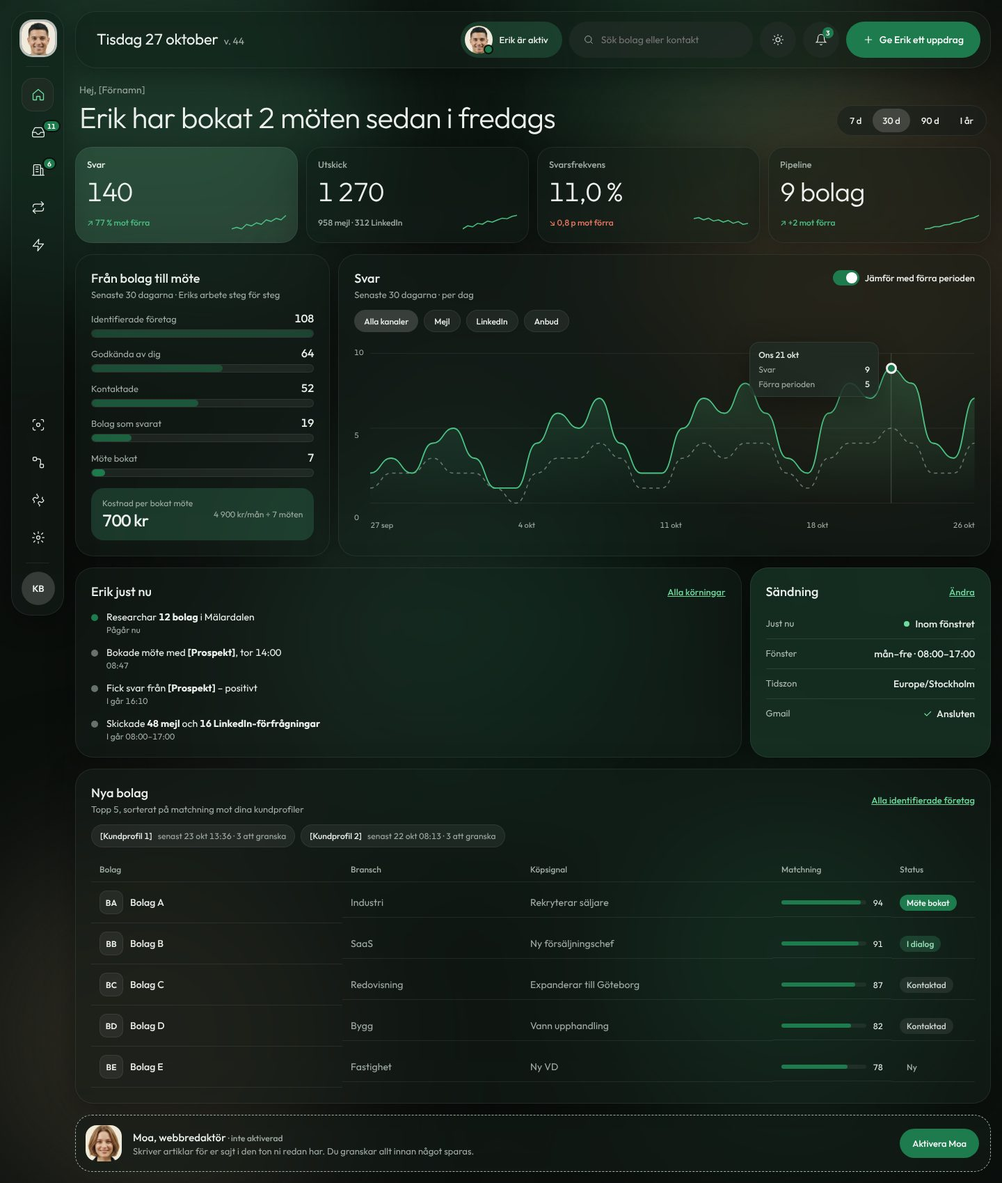
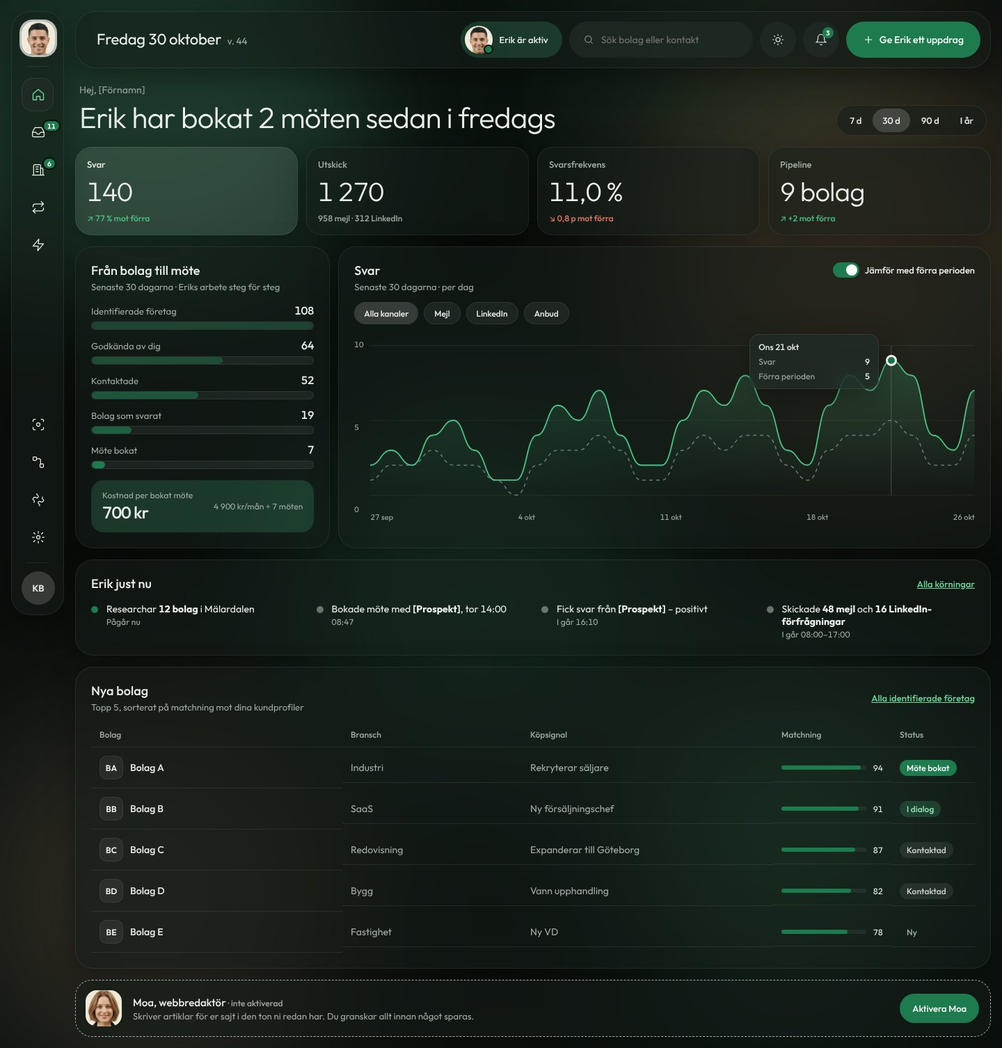
a

diff --git a/design/Main.dc.html b/design/Main.dc.html
@@ -41,7 +41,7 @@ html,body{transition:none}
 
 <!-- Sidebar -->
 <div style="position: sticky; top: 16px; z-index: 30; flex: none; width: 76px; height: calc(100vh - 32px); min-height: 620px">
-<aside onMouseEnter="{{openRail}}" onMouseLeave="{{closeRail}}" onFocus="{{openRail}}" onBlur="{{closeRail}}" style="position: absolute; left: 0; top: 0; bottom: 0; width: {{railW}}; box-sizing: border-box; overflow: hidden; padding: 14px; border-radius: 28px; background: var(--glass); border: 1px solid var(--glassLine); backdrop-filter: blur(28px) saturate(150%); -webkit-backdrop-filter: blur(28px) saturate(150%); box-shadow: {{railShadow}}; display: flex; flex-direction: column; gap: 14px; transition: width .28s cubic-bezier(.65,0,.35,1), box-shadow .28s">
+<aside onMouseEnter="{{openRail}}" onMouseLeave="{{closeRail}}" onFocus="{{openRail}}" onBlur="{{closeRail}}" style="position: absolute; left: 0; top: 0; bottom: 0; width: {{railW}}; box-sizing: border-box; overflow: hidden; padding: 14px; border-radius: 28px; background: var(--glass); border: 1px solid var(--glassLine); backdrop-filter: blur(28px) saturate(110%); -webkit-backdrop-filter: blur(28px) saturate(110%); box-shadow: {{railShadow}}; display: flex; flex-direction: column; gap: 14px; transition: width .28s cubic-bezier(.65,0,.35,1), box-shadow .28s">
 
 <button aria-label="Byt kollega, nu vald: Erik" style="display: flex; align-items: center; gap: 12px; width: 100%; height: 48px; padding: 0; border-radius: 16px; border: 0; background: transparent; color: var(--ink); cursor: pointer; text-align: left; white-space: nowrap">
 <img src="../assets/erik.jpg" alt="" style="width: 48px; height: 48px; flex: none; border-radius: 16px; object-fit: cover; box-shadow: 0 0 0 3px rgba(255,255,255,0.7)">
@@ -93,7 +93,7 @@ html,body{transition:none}
 <main style="flex: 1 1 0; min-width: 0; display: flex; flex-direction: column; gap: 16px">
 
 <sc-if value="{{anyPop}}" hint-placeholder-val="{{false}}"><div aria-hidden="true" onMouseDown="{{closePops}}" style="position: fixed; inset: 0; z-index: 14; background: transparent; cursor: default"></div></sc-if>
-<header style="position: relative; z-index: 15; display: flex; flex-wrap: wrap; align-items: center; justify-content: space-between; gap: 16px; min-height: 80px; box-sizing: border-box; padding: 14px 14px 14px 30px; border-radius: 30px; background: var(--glass); border: 1px solid var(--glassLine); backdrop-filter: blur(28px) saturate(150%); -webkit-backdrop-filter: blur(28px) saturate(150%); box-shadow: var(--shadow)">
+<header style="position: relative; z-index: 15; display: flex; flex-wrap: wrap; align-items: center; justify-content: space-between; gap: 16px; min-height: 80px; box-sizing: border-box; padding: 14px 14px 14px 30px; border-radius: 30px; background: var(--glass); border: 1px solid var(--glassLine); backdrop-filter: blur(28px) saturate(110%); -webkit-backdrop-filter: blur(28px) saturate(110%); box-shadow: var(--shadow)">
 <div style="display: flex; flex-direction: column; gap: 4px; line-height: 1.15; padding: 4px 0">
 <span style="font-size: 22px; font-weight: 400; letter-spacing: -0.01em">{{todayStr}} <span style="margin-left: 4px; font-size: 14px; font-weight: 400; color: var(--muted)">{{weekStr}}</span></span>
 </div>
@@ -179,17 +179,17 @@ html,body{transition:none}
 <section aria-label="Nyckeltal" style="display: grid; grid-template-columns: repeat(auto-fit, minmax(180px, 1fr)); gap: 12px">
 <sc-for list="{{kpis}}" as="k" hint-placeholder-count="6">
 <sc-if value="{{k.selected}}" hint-placeholder-val="{{false}}">
-<button onClick="{{k.pick}}" aria-pressed="true" style="text-align: left; font: inherit; color: var(--ink); background: {{t.kpiOn}}; border: 1px solid var(--glassLine); border-radius: 24px; padding: 16px; display: flex; flex-direction: column; gap: 12px; cursor: pointer; backdrop-filter: blur(24px) saturate(150%); -webkit-backdrop-filter: blur(24px) saturate(150%); box-shadow: var(--shadow)">
+<button onClick="{{k.pick}}" aria-pressed="true" style="text-align: left; font: inherit; color: var(--ink); background: {{t.kpiOn}}; border: 1px solid var(--glassLine); border-radius: 24px; padding: 16px; display: flex; flex-direction: column; gap: 12px; cursor: pointer; backdrop-filter: blur(24px) saturate(110%); -webkit-backdrop-filter: blur(24px) saturate(110%); box-shadow: var(--shadow)">
 <span style="font-size: 13px; font-weight: 500">{{k.label}}</span>
 <span style="font-size: 38px; font-weight: 300; letter-spacing: -0.02em; line-height: 1">{{k.value}}</span>
-<span style="display: flex; align-items: center; justify-content: space-between; gap: 8px"><span style="font-size: 12px; font-weight: 500; color: {{k.trendColor}}">{{k.trend}}</span><svg width="78" height="26" viewBox="0 0 100 32" preserveAspectRatio="none" aria-hidden="true"><polyline points="{{k.spark}}" fill="none" stroke="var(--chart)" stroke-width="1.5" vector-effect="non-scaling-stroke" stroke-linejoin="round"></polyline></svg></span>
+<span style="display: flex; align-items: center; justify-content: space-between; gap: 8px"><span style="font-size: 12px; font-weight: 500; color: {{k.trendColor}}">{{k.trend}}</span></span>
 </button>
 </sc-if>
 <sc-if value="{{k.unselected}}" hint-placeholder-val="{{true}}">
-<button onClick="{{k.pick}}" aria-pressed="false" style="text-align: left; font: inherit; color: var(--ink); background: var(--glass); border: 1px solid var(--glassLine); border-radius: 22px; padding: 16px; display: flex; flex-direction: column; gap: 12px; cursor: pointer; backdrop-filter: blur(24px) saturate(150%); -webkit-backdrop-filter: blur(24px) saturate(150%); box-shadow: var(--shadow)">
+<button onClick="{{k.pick}}" aria-pressed="false" style="text-align: left; font: inherit; color: var(--ink); background: var(--glass); border: 1px solid var(--glassLine); border-radius: 22px; padding: 16px; display: flex; flex-direction: column; gap: 12px; cursor: pointer; backdrop-filter: blur(24px) saturate(110%); -webkit-backdrop-filter: blur(24px) saturate(110%); box-shadow: var(--shadow)">
 <span style="font-size: 13px; font-weight: 500; color: var(--muted)">{{k.label}}</span>
 <span style="font-size: 38px; font-weight: 300; letter-spacing: -0.02em; line-height: 1">{{k.value}}</span>
-<span style="display: flex; align-items: center; justify-content: space-between; gap: 8px"><span style="font-size: 12px; font-weight: 500; color: {{k.trendColor}}">{{k.trend}}</span><svg width="78" height="26" viewBox="0 0 100 32" preserveAspectRatio="none" aria-hidden="true"><polyline points="{{k.spark}}" fill="none" stroke="var(--chart)" stroke-width="1.5" vector-effect="non-scaling-stroke" stroke-linejoin="round"></polyline></svg></span>
+<span style="display: flex; align-items: center; justify-content: space-between; gap: 8px"><span style="font-size: 12px; font-weight: 500; color: {{k.trendColor}}">{{k.trend}}</span></span>
 </button>
 </sc-if>
 </sc-for>
@@ -198,7 +198,7 @@ html,body{transition:none}
 <!-- Goal gauge + chart -->
 <section style="display: flex; flex-wrap: wrap; gap: 12px; align-items: stretch">
 
-<div style="flex: 1 1 320px; min-width: 0; padding: 22px; border-radius: 26px; background: var(--glass); border: 1px solid var(--glassLine); backdrop-filter: blur(28px) saturate(150%); -webkit-backdrop-filter: blur(28px) saturate(150%); box-shadow: var(--shadow); display: flex; flex-direction: column; gap: 16px">
+<div style="flex: 1 1 320px; min-width: 0; padding: 22px; border-radius: 26px; background: var(--glass); border: 1px solid var(--glassLine); backdrop-filter: blur(28px) saturate(110%); -webkit-backdrop-filter: blur(28px) saturate(110%); box-shadow: var(--shadow); display: flex; flex-direction: column; gap: 16px">
 <div style="display: flex; flex-direction: column; gap: 4px"><h2 style="margin: 0; font-size: 18px; font-weight: 500">Från bolag till möte</h2><span style="font-size: 13px; color: var(--muted)">Senaste 30 dagarna · Eriks arbete steg för steg</span></div>
 <ol style="list-style: none; margin: 0; padding: 0; display: flex; flex-direction: column; gap: 12px">
 <sc-for list="{{funnel}}" as="f" hint-placeholder-count="5">
@@ -214,7 +214,7 @@ html,body{transition:none}
 </div>
 </div>
 
-<div style="flex: 999 1 560px; min-width: 0; padding: 22px; border-radius: 26px; background: var(--glass); border: 1px solid var(--glassLine); backdrop-filter: blur(28px) saturate(150%); -webkit-backdrop-filter: blur(28px) saturate(150%); box-shadow: var(--shadow); display: flex; flex-direction: column; gap: 14px">
+<div style="flex: 999 1 560px; min-width: 0; padding: 22px; border-radius: 26px; background: var(--glass); border: 1px solid var(--glassLine); backdrop-filter: blur(28px) saturate(110%); -webkit-backdrop-filter: blur(28px) saturate(110%); box-shadow: var(--shadow); display: flex; flex-direction: column; gap: 14px">
 <div style="display: flex; flex-wrap: wrap; justify-content: space-between; gap: 12px; align-items: flex-start">
 <div style="display: flex; flex-direction: column; gap: 4px"><h2 style="margin: 0; font-size: 18px; font-weight: 500">{{chartTitle}}</h2><span style="font-size: 13px; color: var(--muted)">{{chartSub}}</span></div>
 <sc-if value="{{showChart}}" hint-placeholder-val="{{true}}">
@@ -278,9 +278,9 @@ html,body{transition:none}
 <!-- Erik now -->
 <section aria-label="Erik just nu" style="display: flex; flex-wrap: wrap; gap: 12px; align-items: stretch">
 
-<div style="flex: 999 1 520px; min-width: 0; padding: 22px; border-radius: 26px; background: var(--glass); border: 1px solid var(--glassLine); backdrop-filter: blur(28px) saturate(150%); -webkit-backdrop-filter: blur(28px) saturate(150%); box-shadow: var(--shadow); display: flex; flex-direction: column; gap: 16px">
+<div style="flex: 999 1 520px; min-width: 0; padding: 22px; border-radius: 26px; background: var(--glass); border: 1px solid var(--glassLine); backdrop-filter: blur(28px) saturate(110%); -webkit-backdrop-filter: blur(28px) saturate(110%); box-shadow: var(--shadow); display: flex; flex-direction: column; gap: 16px">
 <div style="display: flex; justify-content: space-between; align-items: center"><h2 style="margin: 0; font-size: 18px; font-weight: 500">Erik just nu</h2><a href="#" style="font-size: 13px; font-weight: 500; color: var(--greenText)">Alla körningar</a></div>
-<ol style="list-style: none; margin: 0; padding: 0; display: flex; flex-direction: column; gap: 16px">
+<ol style="list-style: none; margin: 0; padding: 0; display: grid; grid-template-columns: repeat(auto-fit, minmax(260px, 1fr)); gap: 16px 24px">
 <li style="display: flex; gap: 12px; align-items: flex-start"><span style="width: 10px; height: 10px; margin-top: 5px; flex: none; border-radius: 999px; background: var(--green); box-shadow: none"></span><div style="display: flex; flex-direction: column; gap: 2px"><span style="font-size: 14px">Researchar <b>12 bolag</b> i Mälardalen</span><span style="font-size: 12px; color: var(--muted)">Pågår nu</span></div></li>
 <li style="display: flex; gap: 12px; align-items: flex-start"><span style="width: 10px; height: 10px; margin-top: 5px; flex: none; border-radius: 999px; background: var(--muted); opacity: 0.6"></span><div style="display: flex; flex-direction: column; gap: 2px"><span style="font-size: 14px">Bokade möte med <b>[Prospekt]</b>, tor 14:00</span><span style="font-size: 12px; color: var(--muted)">08:47</span></div></li>
 <li style="display: flex; gap: 12px; align-items: flex-start"><span style="width: 10px; height: 10px; margin-top: 5px; flex: none; border-radius: 999px; background: var(--muted); opacity: 0.6"></span><div style="display: flex; flex-direction: column; gap: 2px"><span style="font-size: 14px">Fick svar från <b>[Prospekt]</b> – positivt</span><span style="font-size: 12px; color: var(--muted)">I går 16:10</span></div></li>
@@ -288,25 +288,11 @@ html,body{transition:none}
 </ol>
 </div>
 
-<div style="flex: 1 1 300px; min-width: 0; padding: 22px; border-radius: 26px; background: {{t.inv}}; color: {{t.invInk}}; border: 1px solid var(--glassLine); backdrop-filter: blur(28px) saturate(150%); -webkit-backdrop-filter: blur(28px) saturate(150%); box-shadow: var(--shadow); display: flex; flex-direction: column; gap: 14px">
-<div style="display: flex; justify-content: space-between; align-items: center"><h2 style="margin: 0; font-size: 18px; font-weight: 500">Sändning</h2><a href="Installningar.dc.html" style="font-size: 13px; font-weight: 500; color: {{t.invGreen}}">Ändra</a></div>
-<dl style="margin: 0; display: flex; flex-direction: column">
-<div style="display: flex; justify-content: space-between; gap: 12px; padding: 12px 0; border-bottom: 1px solid {{t.invLine}}"><dt style="font-size: 13px; opacity: 0.72">Just nu</dt><dd style="margin: 0; font-size: 14px; font-weight: 500; display: flex; align-items: center; gap: 8px"><span style="width: 8px; height: 8px; border-radius: 999px; background: {{t.invGreen}}"></span>Inom fönstret</dd></div>
-<div style="display: flex; justify-content: space-between; gap: 12px; padding: 12px 0; border-bottom: 1px solid {{t.invLine}}"><dt style="font-size: 13px; opacity: 0.72">Fönster</dt><dd style="margin: 0; font-size: 14px; font-weight: 500">mån–fre · 08:00–17:00</dd></div>
-<div style="display: flex; justify-content: space-between; gap: 12px; padding: 12px 0; border-bottom: 1px solid {{t.invLine}}"><dt style="font-size: 13px; opacity: 0.72">Tidszon</dt><dd style="margin: 0; font-size: 14px; font-weight: 500">Europe/Stockholm</dd></div>
-<div style="display: flex; justify-content: space-between; gap: 12px; padding: 12px 0"><dt style="font-size: 13px; opacity: 0.72">Gmail</dt><dd style="margin: 0; font-size: 14px; font-weight: 500; display: flex; align-items: center; gap: 6px"><svg width="14" height="14" viewBox="0 0 24 24" fill="none" stroke="currentColor" stroke-width="2.2" stroke-linecap="round" stroke-linejoin="round" aria-hidden="true" style="color: {{t.invGreen}}"><path d="m5 12 5 5L20 7"></path></svg>Ansluten</dd></div>
-</dl>
-</div>
 </section>
 
 <!-- New companies -->
-<section style="padding: 22px; border-radius: 26px; background: var(--glass); border: 1px solid var(--glassLine); backdrop-filter: blur(28px) saturate(150%); -webkit-backdrop-filter: blur(28px) saturate(150%); box-shadow: var(--shadow); display: flex; flex-direction: column; gap: 14px">
+<section style="padding: 22px; border-radius: 26px; background: var(--glass); border: 1px solid var(--glassLine); backdrop-filter: blur(28px) saturate(110%); -webkit-backdrop-filter: blur(28px) saturate(110%); box-shadow: var(--shadow); display: flex; flex-direction: column; gap: 14px">
 <div style="display: flex; flex-wrap: wrap; justify-content: space-between; gap: 12px; align-items: center"><div style="display: flex; flex-direction: column; gap: 4px"><h2 style="margin: 0; font-size: 18px; font-weight: 500">Nya bolag</h2><span style="font-size: 13px; color: var(--muted)">Topp 5, sorterat på matchning mot dina kundprofiler</span></div><a href="Foretag.dc.html" style="font-size: 13px; font-weight: 500; color: var(--greenText)">Alla identifierade företag</a></div>
-<div style="display: flex; flex-wrap: wrap; gap: 8px">
-<sc-for list="{{searches}}" as="se" hint-placeholder-count="2">
-<span style="display: flex; align-items: center; gap: 8px; padding: 8px 12px; border-radius: 999px; background: var(--soft); border: 1px solid var(--glassLine); font-size: 12px"><b style="font-weight: 500">{{se.profile}}</b><span style="color: var(--muted)">senast {{se.last}} · {{se.found}}</span></span>
-</sc-for>
-</div>
 <div style="overflow-x: auto">
 <div role="table" aria-label="Nya bolag" style="min-width: 720px; font-size: 14px">
 <div role="row" style="display: grid; grid-template-columns: minmax(180px, 1.4fr) minmax(110px, 1fr) minmax(160px, 1.4fr) 170px 120px; color: var(--muted); font-size: 12px">
@@ -330,7 +316,7 @@ html,body{transition:none}
 </section>
 
 <!-- Moa strip -->
-<section style="display: flex; flex-wrap: wrap; align-items: center; gap: 16px; padding: 14px 16px 14px 14px; border-radius: 24px; background: var(--glass); border: 1px dashed var(--muted); backdrop-filter: blur(28px) saturate(150%); -webkit-backdrop-filter: blur(28px) saturate(150%)">
+<section style="display: flex; flex-wrap: wrap; align-items: center; gap: 16px; padding: 14px 16px 14px 14px; border-radius: 24px; background: var(--glass); border: 1px dashed var(--muted); backdrop-filter: blur(28px) saturate(110%); -webkit-backdrop-filter: blur(28px) saturate(110%)">
 <img src="../assets/moa.jpg" alt="Moa" style="width: 52px; height: 52px; flex: none; border-radius: 16px; object-fit: cover">
 <div style="flex: 1 1 320px; display: flex; flex-direction: column; gap: 2px"><span style="font-size: 15px; font-weight: 500">Moa, webbredaktör <span style="font-size: 12px; font-weight: 500; color: var(--muted)">· inte aktiverad</span></span><span style="font-size: 13px; color: var(--muted)">Skriver artiklar för er sajt i den ton ni redan har. Du granskar allt innan något sparas.</span></div>
 <button style="height: 42px; padding: 0 18px; border-radius: 999px; border: 0; background: var(--green); color: var(--onGreen); font-size: 13px; font-weight: 500; cursor: pointer">Aktivera Moa</button>
@@ -379,15 +365,15 @@ class Component extends DCLogic {
       base: '#0A0F0C', blob1: '#1D3A2B', blob2: '#3A3124', blob3: '#173226', blob4: '#2B2A22',
       glass: 'rgba(22,30,25,0.55)', glassHi: 'rgba(34,46,38,0.7)', glassLine: 'rgba(255,255,255,0.08)',
       soft: 'rgba(255,255,255,0.06)', line: 'rgba(255,255,255,0.08)', ink: '#EEF2EE', muted: '#A3AFA7',
-      pill: 'rgba(255,255,255,0.16)', pillInk: '#EEF2EE', kpiOn: 'rgba(255,255,255,0.1)', sun: 'rgba(76,194,133,0.18)', beam: 'rgba(255,255,255,0.05)', grain: '0.25', green: accent, greenText: dark ? '#6EDC9F' : '#15603C', onGreen: '#FFFFFF', greenGlow: 'rgba(30,123,78,0.35)',
+      pill: 'rgba(255,255,255,0.16)', pillInk: '#EEF2EE', kpiOn: 'rgba(255,255,255,0.1)', sun: 'rgba(76,194,133,0.08)', beam: 'transparent', grain: '0.15', green: accent, greenText: dark ? '#6EDC9F' : '#15603C', onGreen: '#FFFFFF', greenGlow: 'rgba(30,123,78,0.35)',
       chart: '#4CC285', chartPrev: '#6C7A71', tintG: 'rgba(76,194,133,0.2)', down: '#F07A63',
       shadow: '0 10px 40px rgba(0,0,0,0.35)',
       scrim: 'rgba(10,15,12,0.35)', pop: 'rgba(22,30,25,0.97)', field: 'rgba(255,255,255,0.05)', fieldLine: 'rgba(255,255,255,0.12)', inv: 'rgba(24,52,38,0.78)', invInk: '#EEF2EE', invSoft: 'rgba(255,255,255,0.06)', invLine: 'rgba(255,255,255,0.1)', invGreen: '#6EDC9F', invGlow: 'rgba(110,220,159,0.22)'
     } : {
-      base: '#D8D2C6', blob1: '#B9C4A8', blob2: '#EADFCB', blob3: '#9FB394', blob4: '#CDB89C',
-      glass: 'rgba(255,255,255,0.36)', glassHi: 'rgba(255,255,255,0.6)', glassLine: 'rgba(255,255,255,0.65)',
+      base: '#E6E3DC', blob1: '#CBD4C2', blob2: '#EDE9E1', blob3: '#C6D0BE', blob4: '#E2DBCF',
+      glass: 'rgba(255,255,255,0.52)', glassHi: 'rgba(255,255,255,0.6)', glassLine: 'rgba(255,255,255,0.65)',
       soft: 'rgba(255,255,255,0.45)', line: 'rgba(30,40,34,0.1)', ink: '#14201A', muted: '#3F4B44',
-      pill: 'rgba(255,255,255,0.82)', pillInk: '#14201A', kpiOn: 'rgba(255,255,255,0.78)', sun: 'rgba(255,253,240,0.6)', beam: 'rgba(255,255,250,0.28)', grain: '0.35', green: accent, greenText: dark ? '#6EDC9F' : '#15603C', onGreen: '#FFFFFF', greenGlow: 'rgba(30,123,78,0.28)',
+      pill: 'rgba(255,255,255,0.82)', pillInk: '#14201A', kpiOn: 'rgba(255,255,255,0.78)', sun: 'rgba(255,255,255,0.3)', beam: 'transparent', grain: '0.15', green: accent, greenText: dark ? '#6EDC9F' : '#15603C', onGreen: '#FFFFFF', greenGlow: 'rgba(30,123,78,0.28)',
       chart: '#1E7B4E', chartPrev: '#8A938C', tintG: 'rgba(30,123,78,0.16)', down: '#9E2F22',
       shadow: '0 1px 0 rgba(255,255,255,0.7) inset, 0 20px 50px rgba(60,70,40,0.08)',
       scrim: 'rgba(216,210,198,0.28)', pop: 'rgba(251,250,247,0.97)', field: '#FFFFFF', fieldLine: 'rgba(20,32,26,0.12)', inv: 'rgba(17,28,22,0.86)', invInk: '#F1F5F2', invSoft: 'rgba(255,255,255,0.08)', invLine: 'rgba(255,255,255,0.12)', invGreen: '#6EDC9F', invGlow: 'rgba(110,220,159,0.22)'

diff --git a/prototype/Main.html b/prototype/Main.html
@@ -39,7 +39,7 @@ html,body{transition:none}
 
 <!-- Sidebar -->
 <div style="position: sticky; top: 16px; z-index: 30; flex: none; width: 76px; height: calc(100vh - 32px); min-height: 620px">
-<aside onMouseEnter="{{openRail}}" onMouseLeave="{{closeRail}}" onFocus="{{openRail}}" onBlur="{{closeRail}}" style="position: absolute; left: 0; top: 0; bottom: 0; width: {{railW}}; box-sizing: border-box; overflow: hidden; padding: 14px; border-radius: 28px; background: var(--glass); border: 1px solid var(--glassLine); backdrop-filter: blur(28px) saturate(150%); -webkit-backdrop-filter: blur(28px) saturate(150%); box-shadow: {{railShadow}}; display: flex; flex-direction: column; gap: 14px; transition: width .28s cubic-bezier(.65,0,.35,1), box-shadow .28s">
+<aside onMouseEnter="{{openRail}}" onMouseLeave="{{closeRail}}" onFocus="{{openRail}}" onBlur="{{closeRail}}" style="position: absolute; left: 0; top: 0; bottom: 0; width: {{railW}}; box-sizing: border-box; overflow: hidden; padding: 14px; border-radius: 28px; background: var(--glass); border: 1px solid var(--glassLine); backdrop-filter: blur(28px) saturate(110%); -webkit-backdrop-filter: blur(28px) saturate(110%); box-shadow: {{railShadow}}; display: flex; flex-direction: column; gap: 14px; transition: width .28s cubic-bezier(.65,0,.35,1), box-shadow .28s">
 
 <button aria-label="Byt kollega, nu vald: Erik" style="display: flex; align-items: center; gap: 12px; width: 100%; height: 48px; padding: 0; border-radius: 16px; border: 0; background: transparent; color: var(--ink); cursor: pointer; text-align: left; white-space: nowrap">
 <img src="../assets/erik.jpg" alt="" style="width: 48px; height: 48px; flex: none; border-radius: 16px; object-fit: cover; box-shadow: 0 0 0 3px rgba(255,255,255,0.7)">
@@ -91,7 +91,7 @@ html,body{transition:none}
 <main style="flex: 1 1 0; min-width: 0; display: flex; flex-direction: column; gap: 16px">
 
 <sc-if value="{{anyPop}}" hint-placeholder-val="{{false}}"><div aria-hidden="true" onMouseDown="{{closePops}}" style="position: fixed; inset: 0; z-index: 14; background: transparent; cursor: default"></div></sc-if>
-<header style="position: relative; z-index: 15; display: flex; flex-wrap: wrap; align-items: center; justify-content: space-between; gap: 16px; min-height: 80px; box-sizing: border-box; padding: 14px 14px 14px 30px; border-radius: 30px; background: var(--glass); border: 1px solid var(--glassLine); backdrop-filter: blur(28px) saturate(150%); -webkit-backdrop-filter: blur(28px) saturate(150%); box-shadow: var(--shadow)">
+<header style="position: relative; z-index: 15; display: flex; flex-wrap: wrap; align-items: center; justify-content: space-between; gap: 16px; min-height: 80px; box-sizing: border-box; padding: 14px 14px 14px 30px; border-radius: 30px; background: var(--glass); border: 1px solid var(--glassLine); backdrop-filter: blur(28px) saturate(110%); -webkit-backdrop-filter: blur(28px) saturate(110%); box-shadow: var(--shadow)">
 <div style="display: flex; flex-direction: column; gap: 4px; line-height: 1.15; padding: 4px 0">
 <span style="font-size: 22px; font-weight: 400; letter-spacing: -0.01em">{{todayStr}} <span style="margin-left: 4px; font-size: 14px; font-weight: 400; color: var(--muted)">{{weekStr}}</span></span>
 </div>
@@ -177,17 +177,17 @@ html,body{transition:none}
 <section aria-label="Nyckeltal" style="display: grid; grid-template-columns: repeat(auto-fit, minmax(180px, 1fr)); gap: 12px">
 <sc-for list="{{kpis}}" as="k" hint-placeholder-count="6">
 <sc-if value="{{k.selected}}" hint-placeholder-val="{{false}}">
-<button onClick="{{k.pick}}" aria-pressed="true" style="text-align: left; font: inherit; color: var(--ink); background: {{t.kpiOn}}; border: 1px solid var(--glassLine); border-radius: 24px; padding: 16px; display: flex; flex-direction: column; gap: 12px; cursor: pointer; backdrop-filter: blur(24px) saturate(150%); -webkit-backdrop-filter: blur(24px) saturate(150%); box-shadow: var(--shadow)">
+<button onClick="{{k.pick}}" aria-pressed="true" style="text-align: left; font: inherit; color: var(--ink); background: {{t.kpiOn}}; border: 1px solid var(--glassLine); border-radius: 24px; padding: 16px; display: flex; flex-direction: column; gap: 12px; cursor: pointer; backdrop-filter: blur(24px) saturate(110%); -webkit-backdrop-filter: blur(24px) saturate(110%); box-shadow: var(--shadow)">
 <span style="font-size: 13px; font-weight: 500">{{k.label}}</span>
 <span style="font-size: 38px; font-weight: 300; letter-spacing: -0.02em; line-height: 1">{{k.value}}</span>
-<span style="display: flex; align-items: center; justify-content: space-between; gap: 8px"><span style="font-size: 12px; font-weight: 500; color: {{k.trendColor}}">{{k.trend}}</span><svg width="78" height="26" viewBox="0 0 100 32" preserveAspectRatio="none" aria-hidden="true"><polyline points="{{k.spark}}" fill="none" stroke="var(--chart)" stroke-width="1.5" vector-effect="non-scaling-stroke" stroke-linejoin="round"></polyline></svg></span>
+<span style="display: flex; align-items: center; justify-content: space-between; gap: 8px"><span style="font-size: 12px; font-weight: 500; color: {{k.trendColor}}">{{k.trend}}</span></span>
 </button>
 </sc-if>
 <sc-if value="{{k.unselected}}" hint-placeholder-val="{{true}}">
-<button onClick="{{k.pick}}" aria-pressed="false" style="text-align: left; font: inherit; color: var(--ink); background: var(--glass); border: 1px solid var(--glassLine); border-radius: 22px; padding: 16px; display: flex; flex-direction: column; gap: 12px; cursor: pointer; backdrop-filter: blur(24px) saturate(150%); -webkit-backdrop-filter: blur(24px) saturate(150%); box-shadow: var(--shadow)">
+<button onClick="{{k.pick}}" aria-pressed="false" style="text-align: left; font: inherit; color: var(--ink); background: var(--glass); border: 1px solid var(--glassLine); border-radius: 22px; padding: 16px; display: flex; flex-direction: column; gap: 12px; cursor: pointer; backdrop-filter: blur(24px) saturate(110%); -webkit-backdrop-filter: blur(24px) saturate(110%); box-shadow: var(--shadow)">
 <span style="font-size: 13px; font-weight: 500; color: var(--muted)">{{k.label}}</span>
 <span style="font-size: 38px; font-weight: 300; letter-spacing: -0.02em; line-height: 1">{{k.value}}</span>
-<span style="display: flex; align-items: center; justify-content: space-between; gap: 8px"><span style="font-size: 12px; font-weight: 500; color: {{k.trendColor}}">{{k.trend}}</span><svg width="78" height="26" viewBox="0 0 100 32" preserveAspectRatio="none" aria-hidden="true"><polyline points="{{k.spark}}" fill="none" stroke="var(--chart)" stroke-width="1.5" vector-effect="non-scaling-stroke" stroke-linejoin="round"></polyline></svg></span>
+<span style="display: flex; align-items: center; justify-content: space-between; gap: 8px"><span style="font-size: 12px; font-weight: 500; color: {{k.trendColor}}">{{k.trend}}</span></span>
 </button>
 </sc-if>
 </sc-for>
@@ -196,7 +196,7 @@ html,body{transition:none}
 <!-- Goal gauge + chart -->
 <section style="display: flex; flex-wrap: wrap; gap: 12px; align-items: stretch">
 
-<div style="flex: 1 1 320px; min-width: 0; padding: 22px; border-radius: 26px; background: var(--glass); border: 1px solid var(--glassLine); backdrop-filter: blur(28px) saturate(150%); -webkit-backdrop-filter: blur(28px) saturate(150%); box-shadow: var(--shadow); display: flex; flex-direction: column; gap: 16px">
+<div style="flex: 1 1 320px; min-width: 0; padding: 22px; border-radius: 26px; background: var(--glass); border: 1px solid var(--glassLine); backdrop-filter: blur(28px) saturate(110%); -webkit-backdrop-filter: blur(28px) saturate(110%); box-shadow: var(--shadow); display: flex; flex-direction: column; gap: 16px">
 <div style="display: flex; flex-direction: column; gap: 4px"><h2 style="margin: 0; font-size: 18px; font-weight: 500">Från bolag till möte</h2><span style="font-size: 13px; color: var(--muted)">Senaste 30 dagarna · Eriks arbete steg för steg</span></div>
 <ol style="list-style: none; margin: 0; padding: 0; display: flex; flex-direction: column; gap: 12px">
 <sc-for list="{{funnel}}" as="f" hint-placeholder-count="5">
@@ -212,7 +212,7 @@ html,body{transition:none}
 </div>
 </div>
 
-<div style="flex: 999 1 560px; min-width: 0; padding: 22px; border-radius: 26px; background: var(--glass); border: 1px solid var(--glassLine); backdrop-filter: blur(28px) saturate(150%); -webkit-backdrop-filter: blur(28px) saturate(150%); box-shadow: var(--shadow); display: flex; flex-direction: column; gap: 14px">
+<div style="flex: 999 1 560px; min-width: 0; padding: 22px; border-radius: 26px; background: var(--glass); border: 1px solid var(--glassLine); backdrop-filter: blur(28px) saturate(110%); -webkit-backdrop-filter: blur(28px) saturate(110%); box-shadow: var(--shadow); display: flex; flex-direction: column; gap: 14px">
 <div style="display: flex; flex-wrap: wrap; justify-content: space-between; gap: 12px; align-items: flex-start">
 <div style="display: flex; flex-direction: column; gap: 4px"><h2 style="margin: 0; font-size: 18px; font-weight: 500">{{chartTitle}}</h2><span style="font-size: 13px; color: var(--muted)">{{chartSub}}</span></div>
 <sc-if value="{{showChart}}" hint-placeholder-val="{{true}}">
@@ -276,9 +276,9 @@ html,body{transition:none}
 <!-- Erik now -->
 <section aria-label="Erik just nu" style="display: flex; flex-wrap: wrap; gap: 12px; align-items: stretch">
 
-<div style="flex: 999 1 520px; min-width: 0; padding: 22px; border-radius: 26px; background: var(--glass); border: 1px solid var(--glassLine); backdrop-filter: blur(28px) saturate(150%); -webkit-backdrop-filter: blur(28px) saturate(150%); box-shadow: var(--shadow); display: flex; flex-direction: column; gap: 16px">
+<div style="flex: 999 1 520px; min-width: 0; padding: 22px; border-radius: 26px; background: var(--glass); border: 1px solid var(--glassLine); backdrop-filter: blur(28px) saturate(110%); -webkit-backdrop-filter: blur(28px) saturate(110%); box-shadow: var(--shadow); display: flex; flex-direction: column; gap: 16px">
 <div style="display: flex; justify-content: space-between; align-items: center"><h2 style="margin: 0; font-size: 18px; font-weight: 500">Erik just nu</h2><a href="#" style="font-size: 13px; font-weight: 500; color: var(--greenText)">Alla körningar</a></div>
-<ol style="list-style: none; margin: 0; padding: 0; display: flex; flex-direction: column; gap: 16px">
+<ol style="list-style: none; margin: 0; padding: 0; display: grid; grid-template-columns: repeat(auto-fit, minmax(260px, 1fr)); gap: 16px 24px">
 <li style="display: flex; gap: 12px; align-items: flex-start"><span style="width: 10px; height: 10px; margin-top: 5px; flex: none; border-radius: 999px; background: var(--green); box-shadow: none"></span><div style="display: flex; flex-direction: column; gap: 2px"><span style="font-size: 14px">Researchar <b>12 bolag</b> i Mälardalen</span><span style="font-size: 12px; color: var(--muted)">Pågår nu</span></div></li>
 <li style="display: flex; gap: 12px; align-items: flex-start"><span style="width: 10px; height: 10px; margin-top: 5px; flex: none; border-radius: 999px; background: var(--muted); opacity: 0.6"></span><div style="display: flex; flex-direction: column; gap: 2px"><span style="font-size: 14px">Bokade möte med <b>[Prospekt]</b>, tor 14:00</span><span style="font-size: 12px; color: var(--muted)">08:47</span></div></li>
 <li style="display: flex; gap: 12px; align-items: flex-start"><span style="width: 10px; height: 10px; margin-top: 5px; flex: none; border-radius: 999px; background: var(--muted); opacity: 0.6"></span><div style="display: flex; flex-direction: column; gap: 2px"><span style="font-size: 14px">Fick svar från <b>[Prospekt]</b> – positivt</span><span style="font-size: 12px; color: var(--muted)">I går 16:10</span></div></li>
@@ -286,25 +286,11 @@ html,body{transition:none}
 </ol>
 </div>
 
-<div style="flex: 1 1 300px; min-width: 0; padding: 22px; border-radius: 26px; background: {{t.inv}}; color: {{t.invInk}}; border: 1px solid var(--glassLine); backdrop-filter: blur(28px) saturate(150%); -webkit-backdrop-filter: blur(28px) saturate(150%); box-shadow: var(--shadow); display: flex; flex-direction: column; gap: 14px">
-<div style="display: flex; justify-content: space-between; align-items: center"><h2 style="margin: 0; font-size: 18px; font-weight: 500">Sändning</h2><a href="Installningar.dc.html" style="font-size: 13px; font-weight: 500; color: {{t.invGreen}}">Ändra</a></div>
-<dl style="margin: 0; display: flex; flex-direction: column">
-<div style="display: flex; justify-content: space-between; gap: 12px; padding: 12px 0; border-bottom: 1px solid {{t.invLine}}"><dt style="font-size: 13px; opacity: 0.72">Just nu</dt><dd style="margin: 0; font-size: 14px; font-weight: 500; display: flex; align-items: center; gap: 8px"><span style="width: 8px; height: 8px; border-radius: 999px; background: {{t.invGreen}}"></span>Inom fönstret</dd></div>
-<div style="display: flex; justify-content: space-between; gap: 12px; padding: 12px 0; border-bottom: 1px solid {{t.invLine}}"><dt style="font-size: 13px; opacity: 0.72">Fönster</dt><dd style="margin: 0; font-size: 14px; font-weight: 500">mån–fre · 08:00–17:00</dd></div>
-<div style="display: flex; justify-content: space-between; gap: 12px; padding: 12px 0; border-bottom: 1px solid {{t.invLine}}"><dt style="font-size: 13px; opacity: 0.72">Tidszon</dt><dd style="margin: 0; font-size: 14px; font-weight: 500">Europe/Stockholm</dd></div>
-<div style="display: flex; justify-content: space-between; gap: 12px; padding: 12px 0"><dt style="font-size: 13px; opacity: 0.72">Gmail</dt><dd style="margin: 0; font-size: 14px; font-weight: 500; display: flex; align-items: center; gap: 6px"><svg width="14" height="14" viewBox="0 0 24 24" fill="none" stroke="currentColor" stroke-width="2.2" stroke-linecap="round" stroke-linejoin="round" aria-hidden="true" style="color: {{t.invGreen}}"><path d="m5 12 5 5L20 7"></path></svg>Ansluten</dd></div>
-</dl>
-</div>
 </section>
 
 <!-- New companies -->
-<section style="padding: 22px; border-radius: 26px; background: var(--glass); border: 1px solid var(--glassLine); backdrop-filter: blur(28px) saturate(150%); -webkit-backdrop-filter: blur(28px) saturate(150%); box-shadow: var(--shadow); display: flex; flex-direction: column; gap: 14px">
+<section style="padding: 22px; border-radius: 26px; background: var(--glass); border: 1px solid var(--glassLine); backdrop-filter: blur(28px) saturate(110%); -webkit-backdrop-filter: blur(28px) saturate(110%); box-shadow: var(--shadow); display: flex; flex-direction: column; gap: 14px">
 <div style="display: flex; flex-wrap: wrap; justify-content: space-between; gap: 12px; align-items: center"><div style="display: flex; flex-direction: column; gap: 4px"><h2 style="margin: 0; font-size: 18px; font-weight: 500">Nya bolag</h2><span style="font-size: 13px; color: var(--muted)">Topp 5, sorterat på matchning mot dina kundprofiler</span></div><a href="Foretag.dc.html" style="font-size: 13px; font-weight: 500; color: var(--greenText)">Alla identifierade företag</a></div>
-<div style="display: flex; flex-wrap: wrap; gap: 8px">
-<sc-for list="{{searches}}" as="se" hint-placeholder-count="2">
-<span style="display: flex; align-items: center; gap: 8px; padding: 8px 12px; border-radius: 999px; background: var(--soft); border: 1px solid var(--glassLine); font-size: 12px"><b style="font-weight: 500">{{se.profile}}</b><span style="color: var(--muted)">senast {{se.last}} · {{se.found}}</span></span>
-</sc-for>
-</div>
 <div style="overflow-x: auto">
 <div role="table" aria-label="Nya bolag" style="min-width: 720px; font-size: 14px">
 <div role="row" style="display: grid; grid-template-columns: minmax(180px, 1.4fr) minmax(110px, 1fr) minmax(160px, 1.4fr) 170px 120px; color: var(--muted); font-size: 12px">
@@ -328,7 +314,7 @@ html,body{transition:none}
 </section>
 
 <!-- Moa strip -->
-<section style="display: flex; flex-wrap: wrap; align-items: center; gap: 16px; padding: 14px 16px 14px 14px; border-radius: 24px; background: var(--glass); border: 1px dashed var(--muted); backdrop-filter: blur(28px) saturate(150%); -webkit-backdrop-filter: blur(28px) saturate(150%)">
+<section style="display: flex; flex-wrap: wrap; align-items: center; gap: 16px; padding: 14px 16px 14px 14px; border-radius: 24px; background: var(--glass); border: 1px dashed var(--muted); backdrop-filter: blur(28px) saturate(110%); -webkit-backdrop-filter: blur(28px) saturate(110%)">
 <img src="../assets/moa.jpg" alt="Moa" style="width: 52px; height: 52px; flex: none; border-radius: 16px; object-fit: cover">
 <div style="flex: 1 1 320px; display: flex; flex-direction: column; gap: 2px"><span style="font-size: 15px; font-weight: 500">Moa, webbredaktör <span style="font-size: 12px; font-weight: 500; color: var(--muted)">· inte aktiverad</span></span><span style="font-size: 13px; color: var(--muted)">Skriver artiklar för er sajt i den ton ni redan har. Du granskar allt innan något sparas.</span></div>
 <button style="height: 42px; padding: 0 18px; border-radius: 999px; border: 0; background: var(--green); color: var(--onGreen); font-size: 13px; font-weight: 500; cursor: pointer">Aktivera Moa</button>
@@ -378,15 +364,15 @@ class Component extends DCLogic {
       base: '#0A0F0C', blob1: '#1D3A2B', blob2: '#3A3124', blob3: '#173226', blob4: '#2B2A22',
       glass: 'rgba(22,30,25,0.55)', glassHi: 'rgba(34,46,38,0.7)', glassLine: 'rgba(255,255,255,0.08)',
       soft: 'rgba(255,255,255,0.06)', line: 'rgba(255,255,255,0.08)', ink: '#EEF2EE', muted: '#A3AFA7',
-      pill: 'rgba(255,255,255,0.16)', pillInk: '#EEF2EE', kpiOn: 'rgba(255,255,255,0.1)', sun: 'rgba(76,194,133,0.18)', beam: 'rgba(255,255,255,0.05)', grain: '0.25', green: accent, greenText: dark ? '#6EDC9F' : '#15603C', onGreen: '#FFFFFF', greenGlow: 'rgba(30,123,78,0.35)',
+      pill: 'rgba(255,255,255,0.16)', pillInk: '#EEF2EE', kpiOn: 'rgba(255,255,255,0.1)', sun: 'rgba(76,194,133,0.08)', beam: 'transparent', grain: '0.15', green: accent, greenText: dark ? '#6EDC9F' : '#15603C', onGreen: '#FFFFFF', greenGlow: 'rgba(30,123,78,0.35)',
       chart: '#4CC285', chartPrev: '#6C7A71', tintG: 'rgba(76,194,133,0.2)', down: '#F07A63',
       shadow: '0 10px 40px rgba(0,0,0,0.35)',
       scrim: 'rgba(10,15,12,0.35)', pop: 'rgba(22,30,25,0.97)', field: 'rgba(255,255,255,0.05)', fieldLine: 'rgba(255,255,255,0.12)', inv: 'rgba(24,52,38,0.78)', invInk: '#EEF2EE', invSoft: 'rgba(255,255,255,0.06)', invLine: 'rgba(255,255,255,0.1)', invGreen: '#6EDC9F', invGlow: 'rgba(110,220,159,0.22)'
     } : {
-      base: '#D8D2C6', blob1: '#B9C4A8', blob2: '#EADFCB', blob3: '#9FB394', blob4: '#CDB89C',
-      glass: 'rgba(255,255,255,0.36)', glassHi: 'rgba(255,255,255,0.6)', glassLine: 'rgba(255,255,255,0.65)',
+      base: '#E6E3DC', blob1: '#CBD4C2', blob2: '#EDE9E1', blob3: '#C6D0BE', blob4: '#E2DBCF',
+      glass: 'rgba(255,255,255,0.52)', glassHi: 'rgba(255,255,255,0.6)', glassLine: 'rgba(255,255,255,0.65)',
       soft: 'rgba(255,255,255,0.45)', line: 'rgba(30,40,34,0.1)', ink: '#14201A', muted: '#3F4B44',
-      pill: 'rgba(255,255,255,0.82)', pillInk: '#14201A', kpiOn: 'rgba(255,255,255,0.78)', sun: 'rgba(255,253,240,0.6)', beam: 'rgba(255,255,250,0.28)', grain: '0.35', green: accent, greenText: dark ? '#6EDC9F' : '#15603C', onGreen: '#FFFFFF', greenGlow: 'rgba(30,123,78,0.28)',
+      pill: 'rgba(255,255,255,0.82)', pillInk: '#14201A', kpiOn: 'rgba(255,255,255,0.78)', sun: 'rgba(255,255,255,0.3)', beam: 'transparent', grain: '0.15', green: accent, greenText: dark ? '#6EDC9F' : '#15603C', onGreen: '#FFFFFF', greenGlow: 'rgba(30,123,78,0.28)',
       chart: '#1E7B4E', chartPrev: '#8A938C', tintG: 'rgba(30,123,78,0.16)', down: '#9E2F22',
       shadow: '0 1px 0 rgba(255,255,255,0.7) inset, 0 20px 50px rgba(60,70,40,0.08)',
       scrim: 'rgba(216,210,198,0.28)', pop: 'rgba(251,250,247,0.97)', field: '#FFFFFF', fieldLine: 'rgba(20,32,26,0.12)', inv: 'rgba(17,28,22,0.86)', invInk: '#F1F5F2', invSoft: 'rgba(255,255,255,0.08)', invLine: 'rgba(255,255,255,0.12)', invGreen: '#6EDC9F', invGlow: 'rgba(110,220,159,0.22)'
